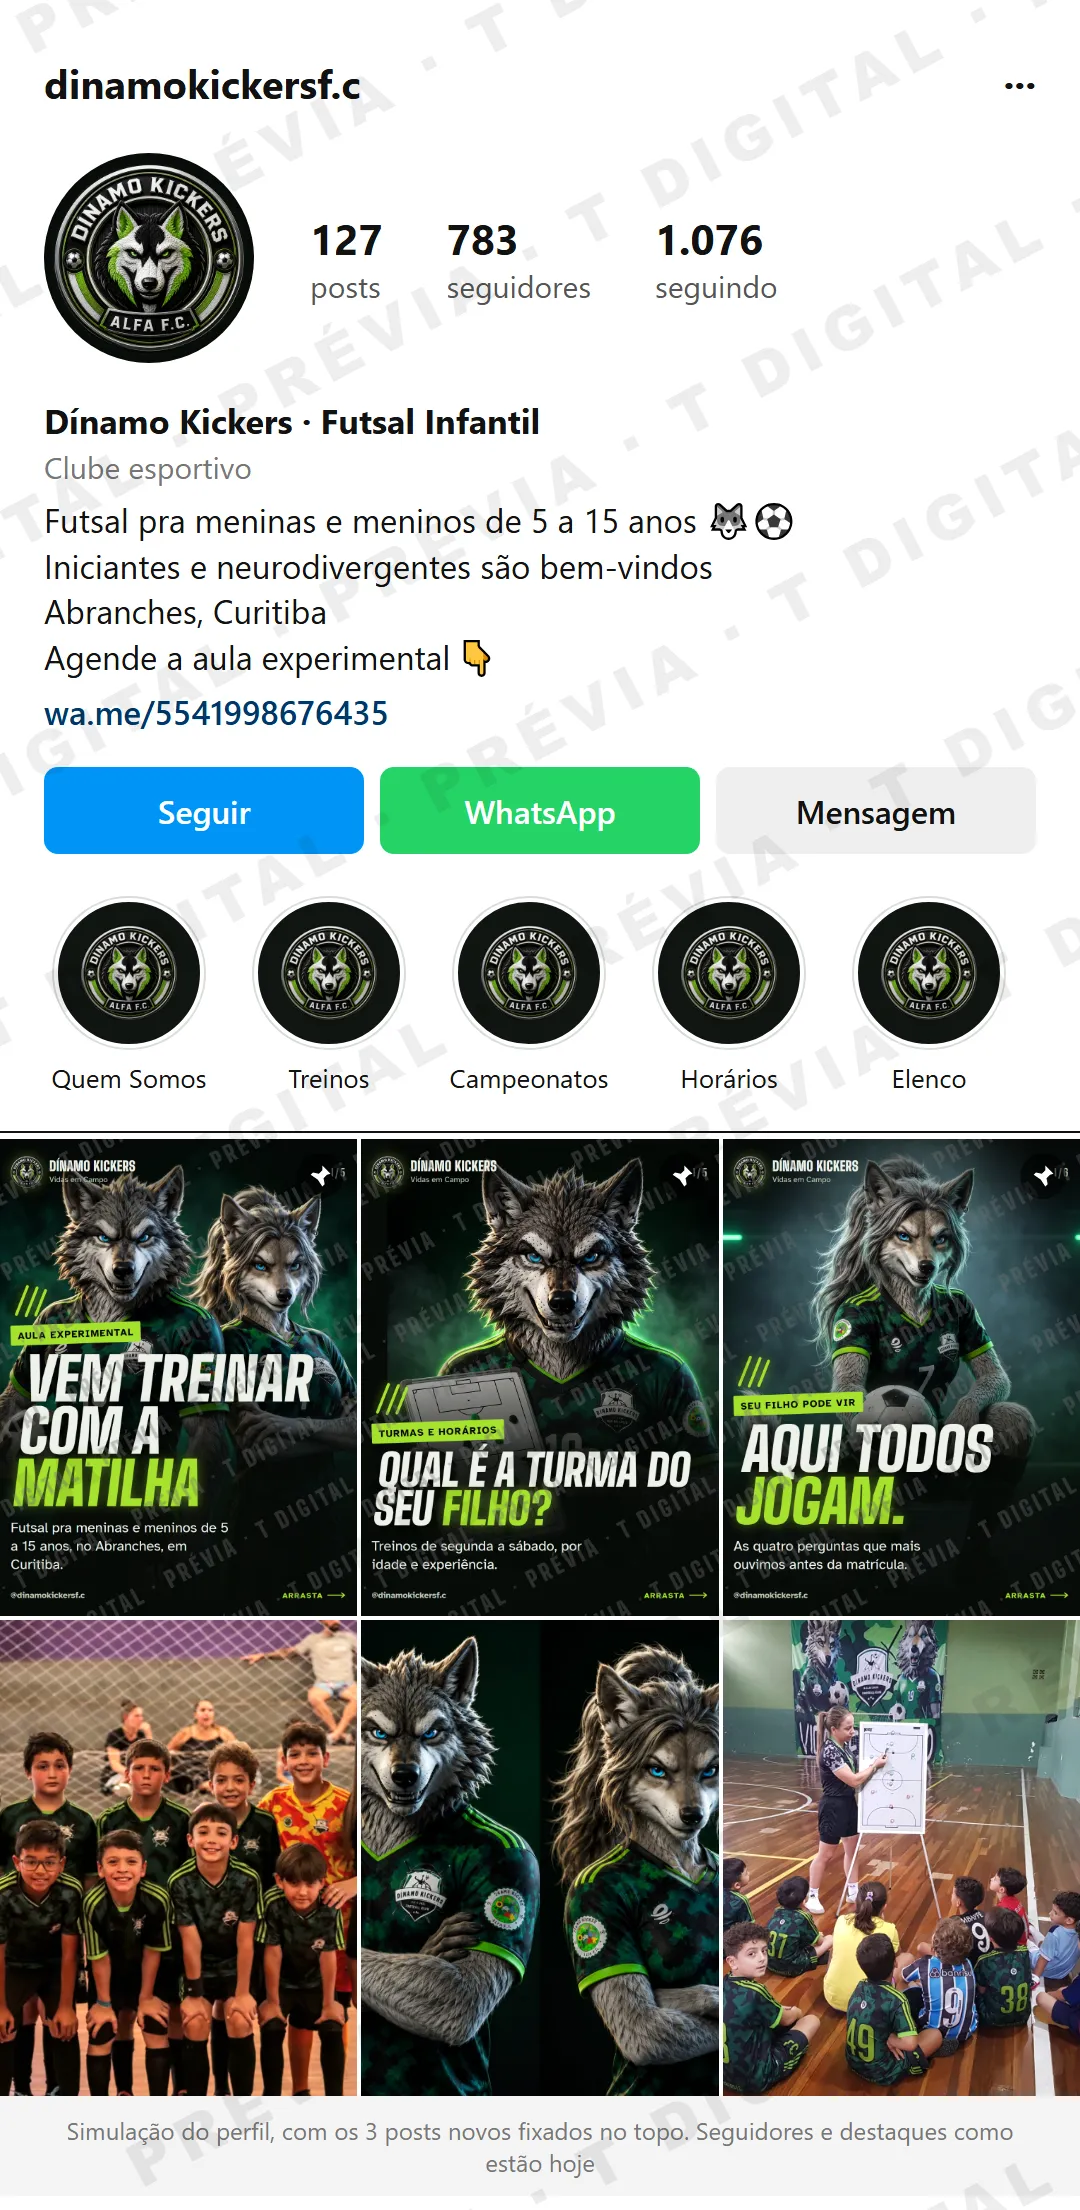
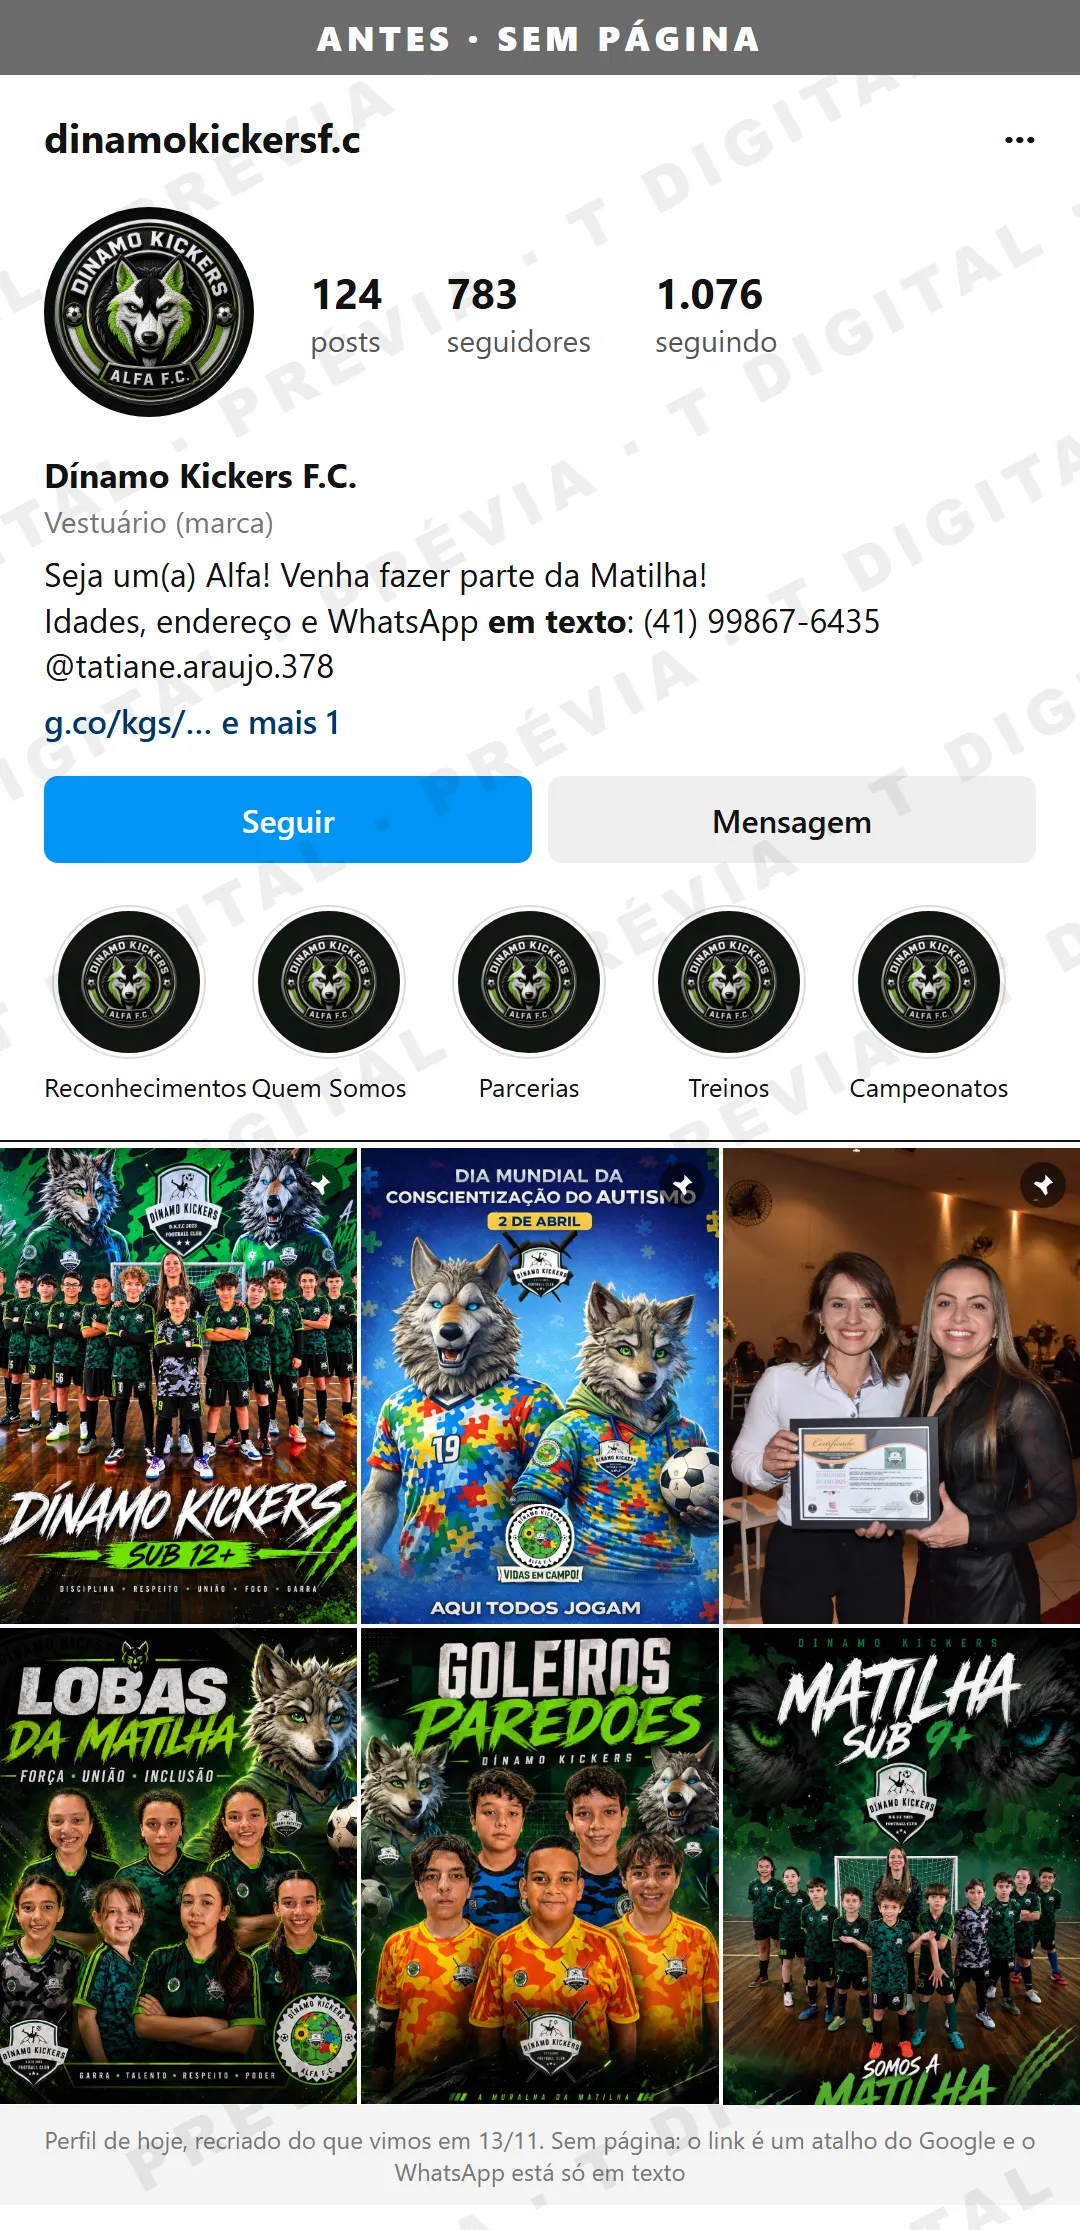
Dínamo: prévia do Instagram com perfil antes e depois e a página no link da bio

diff --git a/public/dinamo-kickers/2026-11-18-instagram/dados.js b/public/dinamo-kickers/2026-11-18-instagram/dados.js
@@ -18,53 +18,54 @@ window.DADOS = {
    "id": "perfil",
    "nome": "Perfil",
    "titulo": "O perfil",
-   "sub": "O que o pai vê nos primeiros segundos.",
+   "sub": "O que o pai vê nos primeiros segundos, antes e depois.",
    "itens": [
     {
      "id": "1-1",
-     "titulo": "O perfil arrumado",
-     "nota": "Hoje a categoria do perfil é \"Vestuário (marca)\", e quem chega lê loja de roupa, não escolinha. Aqui ela vira clube esportivo, o nome ganha \"Futsal Infantil\" (é o que os pais buscam) e o WhatsApp sai do texto da bio e vira botão, num toque.",
+     "titulo": "O perfil, antes e depois",
+     "nota": "Hoje o perfil não tem página: o link é um atalho do Google, o WhatsApp está só em texto (não dá pra tocar) e a categoria é \"Vestuário (marca)\", então quem chega lê loja de roupa. No depois, a categoria vira clube esportivo, o nome ganha \"Futsal Infantil\" (o que os pais buscam), o WhatsApp vira botão e o link da bio leva à página, com turmas, valores e o botão de agendar. O \"antes\" foi recriado do que vimos no perfil em 13/11.",
      "livre": true,
      "slides": [
       {
        "src": "img/1-1-1.webp",
-       "label": "Simulação do perfil",
+       "label": "Antes · como está hoje, sem página",
        "ia": false
       },
       {
        "src": "img/1-1-2.webp",
-       "label": "Foto do perfil",
+       "label": "Depois · com a página no link da bio",
+       "ia": false
+      },
+      {
+       "src": "img/1-1-3.webp",
+       "label": "Depois · a página que o link abre",
        "ia": false
       }
      ],
      "campos": [
       [
-       "Nome",
-       "Dínamo Kickers · Futsal Infantil"
-      ],
-      [
-       "Usuário",
-       "@dinamokickersf.c (continua o mesmo)"
-      ],
-      [
        "Categoria",
-       "Clube esportivo (no lugar de \"Vestuário (marca)\")"
+       "Vestuário (marca) → Clube esportivo"
+      ],
+      [
+       "Nome",
+       "Dínamo Kickers F.C. → Dínamo Kickers · Futsal Infantil"
       ],
       [
        "Bio",
-       "Futsal pra meninas e meninos de 5 a 15 anos 🐺⚽ / Iniciantes e neurodivergentes são bem-vindos / Abranches, Curitiba / Agende a aula experimental 👇"
+       "texto com idades, endereço e WhatsApp sem clique → Futsal pra meninas e meninos de 5 a 15 anos 🐺⚽ / Iniciantes e neurodivergentes são bem-vindos / Abranches, Curitiba / Agende a aula experimental 👇"
       ],
       [
-       "Link",
-       "wa.me/5541998676435 (com a página no ar, o link passa a ser ela)"
+       "Link da bio",
+       "atalho do Google (g.co/kgs) e mais 1 → a página (aprovar.tdigital.tech/dinamo-kickers/previa-1); com a página no ar, o endereço passa a ser o dela"
       ],
       [
-       "Título do link",
-       "Agendar aula experimental"
+       "WhatsApp",
+       "só em texto, sem clique → botão de WhatsApp no perfil e na página"
       ],
       [
-       "Botão de contato",
-       "WhatsApp"
+       "Fixados",
+       "\"Novo polo de captação\", escudo e certificado → como marcar a aula, turmas e valores, \"Seu filho pode vir\""
       ]
      ]
     }

diff --git a/public/dinamo-kickers/2026-11-18-instagram/index.html b/public/dinamo-kickers/2026-11-18-instagram/index.html
@@ -18,7 +18,7 @@
   <img class="logo" src="logo.png" alt="Dínamo Kickers">
   <p class="olho">Prévia · <span id="data"></span></p>
   <h1>Prévia do Instagram da Dínamo</h1>
-  <p class="intro">Uma <b>demonstração</b> que a T Digital montou pra vocês verem como o Instagram da Dínamo pode ficar, feita com os lobos, as cores e as fotos que vocês mandaram. <b>Nada foi publicado nem alterado no perfil de vocês.</b> Aqui estão o perfil arrumado e os 3 posts que ficariam fixados no topo, respondendo o que os pais mais perguntam antes de matricular.</p>
+  <p class="intro">Uma <b>demonstração</b> que a T Digital montou pra vocês verem como o Instagram da Dínamo pode ficar, feita com os lobos, as cores e as fotos que vocês mandaram. <b>Nada foi publicado nem alterado no perfil de vocês.</b> Aqui estão o perfil <b>antes e depois</b> (sem página e com a página no link da bio) e os 3 posts que ficariam fixados no topo, respondendo o que os pais mais perguntam antes de matricular.</p>
   <ol class="como">
     <li>Arraste a imagem pro lado pra ver as versões. Toque nela pra ampliar.</li>
     <li>Em cada peça, toque em <b>Aprovado</b> ou <b>Quero mudar</b>.</li>
